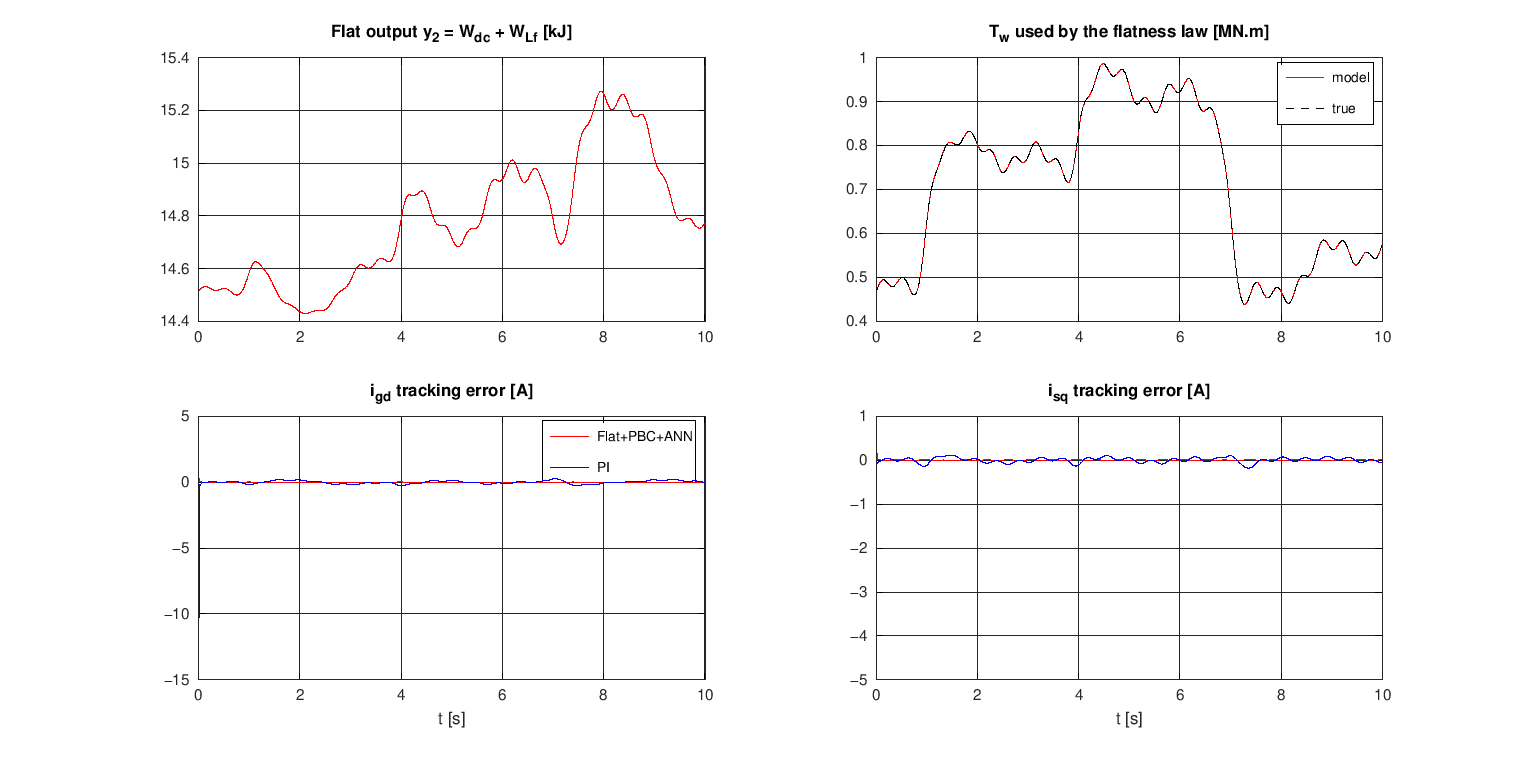
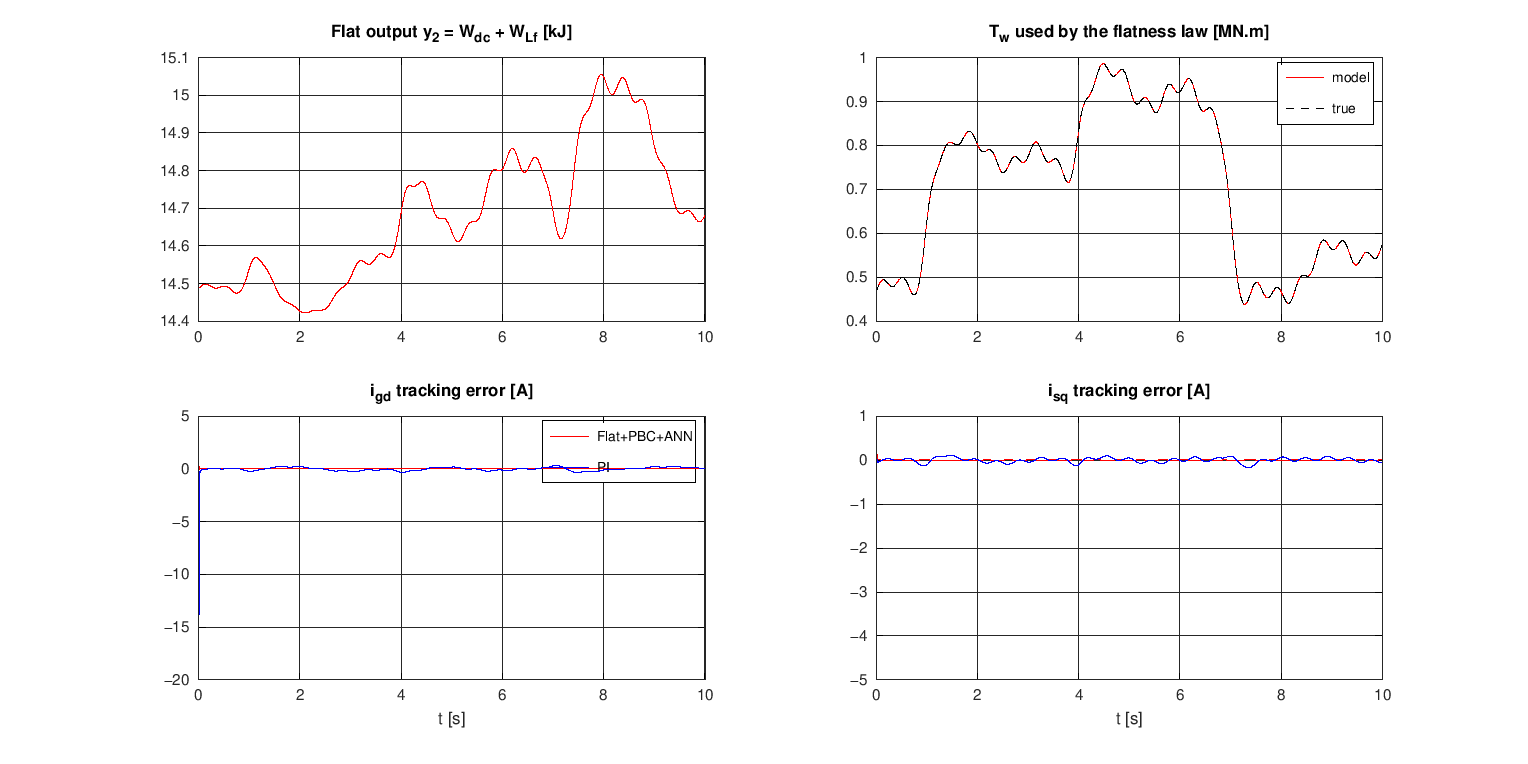
Use PMSG, DC-link, filter and PWM data from Hasan & Shatil (AJSE 2021) and re-run all simulations
- p = 26, Rs = 0.78 mOhm, Ls = 1.57 mH, psi = 9.18 Wb, C = 20 mF, Vdc = 1200 V,
  Lf = 0.15 mH, fsw = 2160 Hz (Table I, Fig. 4a, Sec. IV of the paper)
- switched model: integer number of integration steps per PWM half-period
- docs: parameter table with sources, updated results; paper: reference added

Claude-Session: https://claude.ai/code/session_01JLQN8db6bxeaoqfycny3EU

diff --git a/matlab/pmsg_params.m b/matlab/pmsg_params.m
@@ -4,9 +4,13 @@ function P = pmsg_params()
 %-> L filter -> grid ("back-to-back" converter).
 %
 %Turbine data follow the supervisor's figures (R = 40 m, w_n = 2.23 rad/s,
-%T_n ~ 0.9 MN.m). Generator/converter data are a consistent per-unit design
-%(Sb = 2 MVA, 690 V) and should be cross-checked against the reference
-%paper that will be cited.
+%T_n ~ 0.9 MN.m). PMSG (non-salient case), DC link, grid, filter and PWM
+%frequency are taken from:
+%  S. M. M. Hasan and A. H. M. Shatil, "Design and Comparison of Grid
+%  Connected Permanent Magnet Synchronous Generator Non-salient Pole and
+%  Salient Pole Rotor Wind Turbine", AIUB J. Sci. Eng. (AJSE), vol. 20,
+%  no. 2, pp. 40-46, 2021 (Table I, Fig. 4a, Fig. 12).
+%J, B and Rf are not given there (own assumptions).
 
 %% Turbine (aerodynamics + drive train)
 P.kTw    = 1;              % accuracy of the Cp model used by the controller
@@ -17,26 +21,26 @@ P.beta   = 0;              % pitch angle (fixed, below rated wind) [deg]
 P.wn     = 2.23;           % rated mechanical speed         [rad/s]
 P.Pn     = 2e6;            % rated power                    [W]
 P.Tn     = P.Pn / P.wn;    % rated torque  (~0.9e6 N.m)     [N.m]
-P.J      = 2.8e6;          % total inertia (H ~ 3.5 s)      [kg.m^2]
+P.J      = 2.8e6;          % total inertia (H ~ 3.5 s, assumed) [kg.m^2]
 P.B      = 1e3;            % viscous friction               [N.m.s/rad]
 
 %% PMSG (surface mounted, Ld = Lq = Ls), generator convention
-P.p      = 30;             % pole pairs
-P.Rs     = 0.8e-3;         % stator resistance              [ohm]
-P.Ls     = 1.07e-3;        % synchronous inductance (0.3 pu)[H]
-P.psi    = 7.57;           % PM flux linkage                [Wb]
+P.p      = 26;             % pole pairs                  [AJSE Table I]
+P.Rs     = 0.78e-3;        % stator resistance    [ohm]  [AJSE Table I]
+P.Ls     = 1.57e-3;        % armature inductance  [H]    [AJSE Table I]
+P.psi    = 9.18;           % PM flux linkage      [Wb]   [AJSE Table I]
 
 %% DC bus
-P.C      = 20e-3;          % DC-link capacitance            [F]
-P.Vdc_ref= 1200;           % DC-link voltage reference      [V]
+P.C      = 20e-3;          % DC-link capacitance  [F]    [AJSE Table I]
+P.Vdc_ref= 1200;           % DC-link voltage      [V]    [AJSE Fig. 12]
 
 %% Grid + L filter (grid-voltage oriented frame, ideal PLL)
-P.Vg_ll  = 690;                        % line-line rms        [V]
+P.Vg_ll  = 690;                        % line-line rms [V] [AJSE Table I]
 P.Vgm    = P.Vg_ll*sqrt(2/3);          % phase peak (= v_gd)  [V]
 P.fg     = 50;
 P.wg     = 2*pi*P.fg;
-P.Rf     = 2e-3;           % filter resistance              [ohm]
-P.Lf     = 0.2e-3;         % filter inductance              [H]
+P.Rf     = 2e-3;           % filter resistance (assumed)    [ohm]
+P.Lf     = 0.15e-3;        % grid-side filter     [H]    [AJSE Fig. 4a]
 P.Qref   = 0;              % reactive power reference (unity PF)
 
 %% Limits
@@ -59,6 +63,6 @@ P.tsag = 8;  P.dsag = 0.2;  P.ksag = 0.2;   % start [s], duration [s], depth [pu
 %% Simulation
 P.Ts     = 1e-4;           % control sample time = integration step [s]
 P.Tend   = 10;             % [s]
-P.fsw    = 5e3;            % PWM carrier frequency (switched model) [Hz]
+P.fsw    = 2160;           % PWM carrier frequency [Hz]  [AJSE Sec. IV]
 P.hsw    = 1e-6;           % integration step of the switched model [s]
 end

diff --git a/paper/main.tex b/paper/main.tex
@@ -26,7 +26,7 @@ proportional and damping gains of every loop are tuned online by
 radial-basis-function neural networks, and a second RBF network learns the
 error of the aerodynamic model used by the flatness law. Because the
 closed-loop storage functions decrease for any bounded positive gain, the
-neural tuning does not affect stability. Average and switched (5~kHz SVPWM)
+neural tuning does not affect stability. Average and switched (2.16~kHz SVPWM)
 simulations under wind variations, parameter mismatch and a 20\% grid voltage
 dip are compared with PI vector control with and without power feed-forward,
 and with the proposed scheme without neural networks.
@@ -102,7 +102,7 @@ $V=\tfrac12Je_\Omega^2+\tfrac12Jk_{12}z^2+\tilde{\mathbf W}^T\tilde{\mathbf W}/(
 $\dot V=-Jk_{11}e_\Omega^2$ up to $\varepsilon$ and the leakage term.
 
 \section{Simulation Results}
-% Table I: system parameters (docs/modelisation_commande.md, Sec. 1)
+% Table I: system parameters (docs/modelisation_commande.md, Sec. 1); PMSG data from [Hasan2021]
 % Fig. 1: system + control block diagram
 % Fig. 2: results/fig_nominal.png ; Fig. 3: results/fig_robust.png
 % Fig. 4: results/fig_robust_details.png ; Fig. 5: results/fig_mli.png (PWM, THD)
@@ -111,5 +111,7 @@ $\dot V=-Jk_{11}e_\Omega^2$ up to $\varepsilon$ and the leakage term.
 \section{Conclusion}
 
 \bibliographystyle{IEEEtran}
-% \bibliography{refs}
+\begin{thebibliography}{1}
+\bibitem{Hasan2021} S. M. M. Hasan and A. H. M. Shatil, ``Design and comparison of grid connected permanent magnet synchronous generator non-salient pole and salient pole rotor wind turbine,'' \emph{AIUB J. Sci. Eng.}, vol. 20, no. 2, pp. 40--46, 2021.
+\end{thebibliography}
 \end{document}

diff --git a/matlab/simulate_mli.m b/matlab/simulate_mli.m
@@ -9,7 +9,7 @@ if nargin < 3, Tend = 0.8; end   % must be > 0.3 s (THD window)
 Pp  = P;
 Tc  = 1/(2*P.fsw);                  % controller sample time
 Pc  = P;  Pc.Ts = Tc;               % controller works at Tc
-h   = P.hsw;  nsub = round(Tc/h);
+nsub = round(Tc/P.hsw);  h = Tc/nsub;  % integer number of steps per sample
 vwf = @(t) 10 + 0.5*(1 + tanh((t - 0.45)/0.05));
 [x, u] = init_state(P, Pp, vwf(0));
 S   = ctrl_init(Pc, ctrlType, x, vwf(0), u);

diff --git a/matlab/main_mli.m b/matlab/main_mli.m
@@ -1,5 +1,5 @@
 %MAIN_MLI  Validation with the switched model (PWM rectifier + PWM inverter,
-% fsw = 5 kHz): waveforms and THD of the grid current, PI vs Flat+PBC+ANN.
+% fsw = P.fsw): waveforms and THD of the grid current, PI vs Flat+PBC+ANN.
 clear; close all; clc;
 P = pmsg_params();
 outdir = fullfile('..', 'results');

diff --git a/docs/modelisation_commande.md b/docs/modelisation_commande.md
@@ -14,19 +14,40 @@
 * Chaîne de conversion « **back-to-back** », PMSG à **attaque directe** (direct drive, sans multiplicateur).
 * Éolienne standard de **2 MW** : R = 40 m, Ω_n = 2,23 rad/s, couple nominal T_n = P_n/Ω_n ≈ 0,9 MN·m
   (λ_opt = 8,1, C_p,max = 0,48 → vitesse du vent nominale ≈ 11 m/s).
-* Tous les paramètres sont dans `matlab/pmsg_params.m`. Les données de la turbine sont celles données par l'encadrant ;
-  les données de la machine, du filtre et du bus sont un dimensionnement en p.u. cohérent (S_b = 2 MVA, 690 V)
-  **à recouper avec un article de référence avant soumission**.
+* Tous les paramètres sont dans `matlab/pmsg_params.m`.
+  * **Turbine** : données de l'encadrant + modèle C_p standard (Heier).
+  * **PMSG (cas pôles lisses), bus DC, réseau, filtre, fréquence MLI** : tirés de la référence [1].
+  * **J, B, R_f** : non donnés dans [1], ce sont nos hypothèses.
 
-| Grandeur | Valeur | Grandeur | Valeur |
-|---|---|---|---|
-| P_n | 2 MW | p (paires de pôles) | 30 |
-| R | 40 m | R_s | 0,8 mΩ |
-| Ω_n | 2,23 rad/s | L_s = L_d = L_q | 1,07 mH (0,3 p.u.) |
-| T_n | 0,897 MN·m | ψ_f | 7,57 Wb |
-| J | 2,8·10⁶ kg·m² (H ≈ 3,5 s) | C | 20 mF |
-| λ_opt / C_p,max | 8,1 / 0,48 | V_dc* | 1200 V |
-| Réseau | 690 V, 50 Hz | R_f / L_f | 2 mΩ / 0,2 mH |
+| Grandeur | Valeur | Source |
+|---|---|---|
+| P_n | 2 MW | encadrant ; [1] Tab. I |
+| R | 40 m | encadrant |
+| Ω_n | 2,23 rad/s | encadrant |
+| T_n | 0,897 MN·m | encadrant (P_n/Ω_n) |
+| λ_opt / C_p,max | 8,1 / 0,48 | [1] éq. (3), Fig. 1 |
+| p (paires de pôles) | 26 | [1] Tab. I (non-salient) |
+| R_s | 0,78 mΩ | [1] Tab. I |
+| L_s = L_d = L_q | 1,57 mH | [1] Tab. I |
+| ψ_f | 9,18 Wb | [1] Tab. I |
+| C | 20 mF | [1] Tab. I |
+| V_dc* | 1200 V | [1] Fig. 4a, Fig. 12 |
+| Réseau | 690 V, 50 Hz | [1] Tab. I |
+| L_f | 0,15 mH | [1] Fig. 4a |
+| f_MLI | 2160 Hz | [1] Sec. IV |
+| J | 2,8·10⁶ kg·m² (H ≈ 3,5 s) | hypothèse |
+| B | 1000 N·m·s/rad | hypothèse |
+| R_f | 2 mΩ | hypothèse |
+
+Vérification de cohérence : avec ψ_f = 9,18 Wb à 9,75 Hz (fréquence nominale de [1]), on a
+E = 9,18 × 2π × 9,75 = 562 V. C'est bien la tension crête de phase du réseau 690 V (563 V).
+
+Remarque : dans [1], le générateur fait 2,2 MVA et tourne à 2,355 rad/s nominal. Ici il travaille avec la turbine de
+l'encadrant (2 MW, 2,23 rad/s), donc légèrement en dessous de ses valeurs nominales.
+
+[1] S. M. M. Hasan, A. H. M. Shatil, « Design and Comparison of Grid Connected Permanent Magnet Synchronous Generator
+Non-salient Pole and Salient Pole Rotor Wind Turbine », *AIUB Journal of Science and Engineering (AJSE)*, vol. 20,
+n° 2, pp. 40–46, 2021.
 
 ## 2. Modélisation du système complet
 
@@ -156,59 +177,58 @@ Toutes sont réglées sur les mêmes pôles nominaux (courants τ = 2 ms, vitess
     Les contrôleurs ne connaissent que les valeurs nominales. Le modèle C_p utilisé par la platitude a 10 % d'erreur.
     Creux de tension réseau de 20 % à t = 8 s pendant 200 ms.
 * `main_mli.m` — **modèle commuté** : redresseur MLI + onduleur MLI deux niveaux.
-  * SVPWM, porteuse 5 kHz, échantillonnage régulier double mise à jour, pas d'intégration 1 µs.
+  * SVPWM, porteuse 2160 Hz [1], échantillonnage régulier double mise à jour, pas d'intégration ≈ 1 µs.
   * Vent de 10 m/s puis 11 m/s à t = 0,45 s. THD de i_ga mesuré en régime établi (0,1–0,3 s).
 * Fonctionne sous MATLAB et GNU Octave.
 * Pour Simulink : `ctrl_fpbc_ann.m` et `ctrl_pi.m` → bloc *MATLAB Function* ; `plant_rhs.m` → modèle Simscape
   (PMSM + ponts IGBT + filtre L).
 
 ## 5. Plan pour la soumission (10 octobre)
-1. Valider les paramètres 2 MW avec une référence (Wu et al., *Power Conversion and Control of Wind Energy Systems*, ou
-   un article IEEE sur PMSG 2 MW) et les citer.
+1. ✅ Paramètres de la machine pris de [1] (Hasan & Shatil, AJSE 2021).
 2. Figures : schéma bloc, vitesse/MPPT, C_p, V_dc, P/Q réseau, courants, gains ANN, formes d'onde MLI + THD.
 3. Tableau d'indices (IAE vitesse, ISE V_dc, erreur de courant RMS, énergie produite).
 4. Rédaction : Introduction → Modélisation → Commande plate + passive + ANN (+ preuve) → Résultats → Conclusion.
 
 ## 6. Résultats
 
+Paramètres de la machine selon [1].
+
 ### 6.1 Modèle moyen (`main.m`, 10 s)
 Erreurs de courant RMS en A : [t < 1 s] / [t ≥ 1 s].
 
 | Scénario | Commande | IAE Ω | ISE V_dc | max abs(ΔV_dc) [V] | RMS e_s [A] | RMS e_g [A] | C_p moyen | Énergie [kWh] |
 |---|---|---|---|---|---|---|---|---|
-| nominal | PI | 0,0905 | 421,6 | 13,3 | 0,23 / 0,06 | 1,20 / 0,12 | 0,4652 | 3,503 |
-| nominal | PI+FF | 0,0905 | 0,11 | 1,7 | 0,23 / 0,06 | 1,26 / 0,12 | 0,4652 | 3,503 |
-| nominal | Plate+PBC | 0,0000 | 0,04 | 0,2 | 0,04 / 0,00 | 0,14 / 0,00 | 0,4654 | 3,484 |
-| nominal | Plate+PBC+ANN | 0,0000 | 0,04 | 0,2 | 0,04 / 0,00 | 0,14 / 0,00 | 0,4654 | 3,484 |
-| robustesse | PI | 0,0976 | 1264,9 | 116,6 | 4,16 / 0,20 | 8,94 / 4,40 | 0,4652 | 3,479 |
-| robustesse | PI+FF | 0,0976 | 8,7 | 18,3 | 4,16 / 0,20 | 8,85 / 12,16 | 0,4652 | 3,479 |
-| robustesse | Plate+PBC | 0,0181 | 4,0 | 15,2 | 10,59 / 0,22 | 13,79 / 10,08 | 0,4656 | 3,466 |
-| robustesse | Plate+PBC+ANN | **0,0048** | **3,7** | 15,4 | 10,52 / 0,25 | 13,18 / 10,06 | 0,4654 | 3,463 |
+| nominal | PI | 0,0905 | 422,2 | 13,3 | 0,20 / 0,05 | 1,61 / 0,16 | 0,4652 | 3,504 |
+| nominal | PI+FF | 0,0905 | 0,15 | 2,5 | 0,20 / 0,05 | 1,68 / 0,16 | 0,4652 | 3,504 |
+| nominal | Plate+PBC | 0,0000 | 0,02 | 0,15 | 0,04 / 0,00 | 0,15 / 0,00 | 0,4654 | 3,485 |
+| nominal | Plate+PBC+ANN | 0,0000 | 0,02 | 0,15 | 0,04 / 0,00 | 0,15 / 0,00 | 0,4654 | 3,485 |
+| robustesse | PI | 0,0976 | 1278,8 | 119,6 | 3,06 / 0,17 | 9,11 / 4,51 | 0,4652 | 3,481 |
+| robustesse | PI+FF | 0,0976 | 9,4 | 18,3 | 3,06 / 0,17 | 8,95 / 12,29 | 0,4652 | 3,481 |
+| robustesse | Plate+PBC | 0,0181 | 2,6 | 10,9 | 9,40 / 0,18 | 16,34 / 10,13 | 0,4656 | 3,469 |
+| robustesse | Plate+PBC+ANN | **0,0048** | **2,3** | 11,0 | 9,37 / 0,21 | 15,67 / 10,11 | 0,4654 | 3,465 |
 
-### 6.2 Modèle commuté MLI (`main_mli.m`, f_sw = 5 kHz)
+### 6.2 Modèle commuté MLI (`main_mli.m`, f_MLI = 2160 Hz [1])
 | Commande | THD i_ga (régime établi) |
 |---|---|
-| PI | 0,31 % |
-| Plate+PBC+ANN | 0,61 % |
+| PI | 2,29 % |
+| Plate+PBC+ANN | 2,29 % |
 
-Les deux sont largement sous la limite de 5 % (IEEE 519).
+Les deux sont sous la limite de 5 % (IEEE 519). [1] annonce < 2 %, mais son modèle inclut un transformateur
+35 kV/690 V et une ligne, dont les inductances filtrent davantage.
 
 ### 6.3 Lecture (à garder honnête dans l'article)
-* **Bus DC, face à un PI équitable (PI+FF)** : l'avantage est réel mais modéré.
-  * ISE V_dc : 3,7 contre 8,7 (÷ 2,3).
-  * Écart max pendant le creux : 15 V contre 18 V. En nominal : 0,2 V contre 1,7 V.
-  * Face au PI sans anticipation, l'écart est énorme (117 V), mais cette comparaison n'est pas équitable.
+* **Bus DC, face à un PI équitable (PI+FF)** :
+  * ISE V_dc : 2,3 contre 9,4 (÷ 4).
+  * Écart max pendant le creux : 11 V contre 18 V. En nominal : 0,15 V contre 2,5 V.
+  * Face au PI sans anticipation (120 V), la comparaison n'est pas équitable.
 * **Apport de l'ANN** :
   * En nominal, il n'apporte rien : le modèle est exact.
   * En robustesse (10 % d'erreur sur C_p), l'ANN 2 divise l'IAE de vitesse par 3,8 (0,0181 → 0,0048).
     C'est la contribution principale de l'ANN.
-  * L'ANN 1 (gains) a un effet faible : les erreurs restent sous le seuil de normalisation. Il ne s'active que
-    pendant les grands transitoires.
-* **Vitesse / MPPT** : l'IAE est 20 fois plus petit que le PI (0,0048 contre 0,0976). Mais le C_p moyen est
-  quasiment identique, et l'énergie injectée est ≈ 0,5 % plus faible (le rotor stocke plus d'énergie cinétique
-  pendant les rafales). Il ne faut pas annoncer un gain d'énergie.
-* **Courants** : la PBC utilise les paramètres nominaux dans ses anticipations.
-  * Au démarrage avec désaccord paramétrique, ses erreurs sont plus grandes que celles du PI.
-  * Pendant le creux, l'erreur sur i_g est comparable à celle du PI+FF.
-  * Toutes ces erreurs restent < 0,5 % du courant nominal.
-* **THD** : 0,61 % contre 0,31 %. Plus élevé, mais négligeable.
+  * L'ANN 1 (gains) a un effet faible : il ne s'active que pendant les grands transitoires.
+* **Vitesse / MPPT** : l'IAE est 20 fois plus petit que le PI. Mais le C_p moyen est quasiment identique, et
+  l'énergie injectée est ≈ 0,5 % plus faible (le rotor stocke plus d'énergie cinétique). Il ne faut pas annoncer de
+  gain d'énergie.
+* **Courants** : avec désaccord paramétrique, la PBC (qui utilise les valeurs nominales) a des erreurs plus grandes
+  que le PI au démarrage et pendant le creux. Elles restent < 0,7 % du courant nominal.
+* **THD** : identique au PI (2,29 %).
